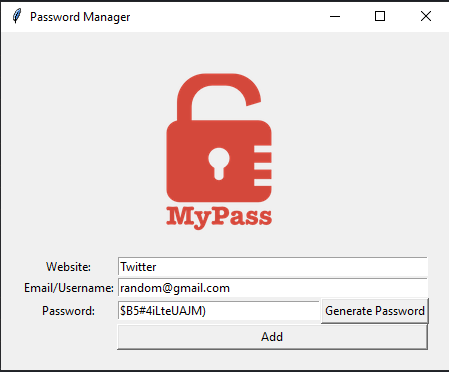
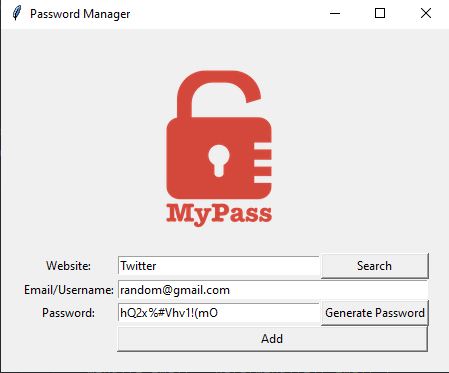
adding search features

diff --git a/main.py b/main.py
@@ -2,27 +2,70 @@ import random
 from tkinter import *
 from tkinter import messagebox
 import pyperclip
+import json
+import os
 
 
 # ---------------------------- SAVE PASSWORD ------------------------------- #
 
 def save():
-    website = website_entry.get()
+    website = website_entry.get().lower()
     email = email_username_entry.get()
     password = password_entry.get()
+    new_data = {
+        website:
+            {
+                "email": email,
+                "password": password
+            }
+    }
 
     if len(website) == 0 or len(password) == 0:
         alert = messagebox.showwarning(title="oops", message="Please don't leave any fields empty!")
     else:
-        is_ok = messagebox.askokcancel(title=website,
-                                       message=f"These are the details entered: \nEmail: {email}\nPassword: {password}"
-                                               f" \nIs it ok "f"to save?")
-        if is_ok:
-            with open("data.txt", "a") as data_file:
-                data_file.write(website + " ! " + email + " ! " + password + "\n")
-                website_entry.delete(0, END)
-                password_entry.delete(0, END)
-                website_entry.focus()
+        try:
+            with open("data.json", "r") as data_file:
+                # reading old data
+                data = json.load(data_file)
+        except FileNotFoundError:
+            with open("data.json", "w") as data_file:
+                # saving updated data
+                json.dump(new_data, data_file, indent=4)
+        except json.decoder.JSONDecodeError:
+            with open("data.json", "w") as data_file:
+                # saving updated data
+                json.dump(new_data, data_file, indent=4)
+        else:
+            # updating old data
+            data.update(new_data)
+            with open("data.json", "w") as data_file:
+                # saving updated data
+                json.dump(data, data_file, indent=4)
+        finally:
+            website_entry.delete(0, END)
+            password_entry.delete(0, END)
+            website_entry.focus()
+
+
+# ---------------------------- Find Password ------------------------------- #
+
+def find_password():
+    website = website_entry.get().lower()
+    try:
+        with open("data.json") as data_file:
+            data = json.load(data_file)
+            # print(data)
+    except FileNotFoundError:
+        messagebox.showinfo(title="Error", message="No Data File Found.")
+    else:
+        if website in data:
+            website_email = data[website]["email"]
+            website_password = data[website]["password"]
+            alert = messagebox.showwarning(title=website,
+                                           message=f"Email: {website_email} \n Password: {website_password} ")
+        else:
+            alert = messagebox.showwarning(title="Error",
+                                           message=f"No Data for {website} exists.")
 
 
 # ---------------------------- PASSWORD GENERATOR ------------------------------- #
@@ -86,9 +129,12 @@ canvas.grid(column=1, row=0)
 website_label = Label(text="Website:")
 website_label.grid(column=0, row=1)
 
-website_entry = Entry(width=51)
-website_entry.grid(column=1, row=1, columnspan=2)
+website_entry = Entry(width=33)
+website_entry.grid(column=1, row=1)
 website_entry.focus()
+
+generate_password_button = Button(text="Search", width=14, command=find_password)
+generate_password_button.grid(column=2, row=1)
 
 email_username_label = Label(text="Email/Username:")
 email_username_label.grid(column=0, row=2)

diff --git a/README.md b/README.md
@@ -2,6 +2,5 @@
 This project is a Password Manager built in Python. The purpose of this project is to create a secure way to store and manage passwords locally for different accounts.
 Also, you don't need to copy the password it's already in your clipboard.
 ![Alt text](/1.png "Optional title")
-![Alt text](/2.png "Optional title")
 ![Alt text](/3.png "Optional title")
 ![Alt text](/4.png "Optional title")
